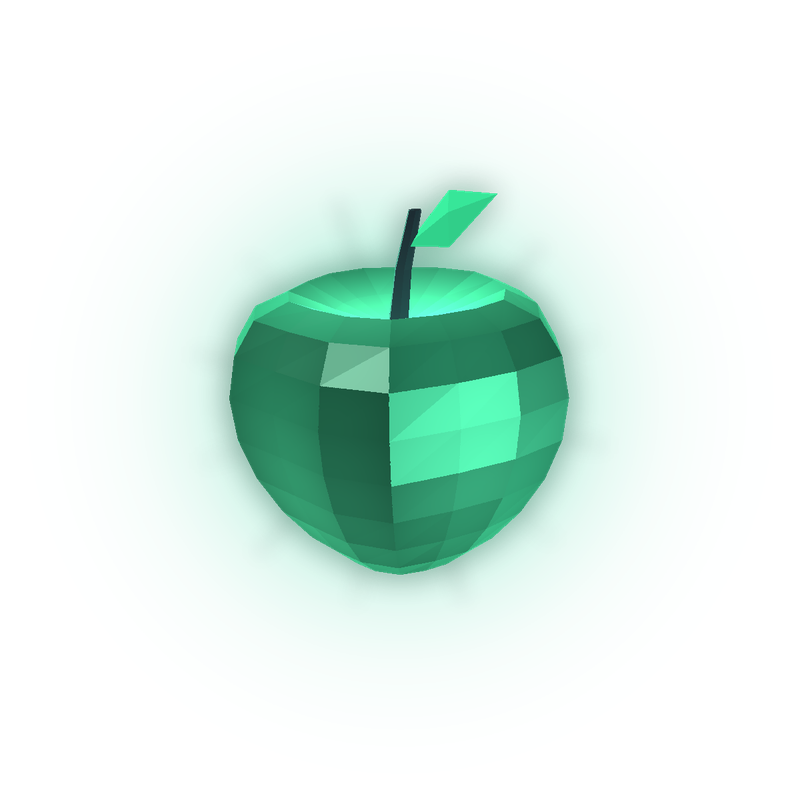
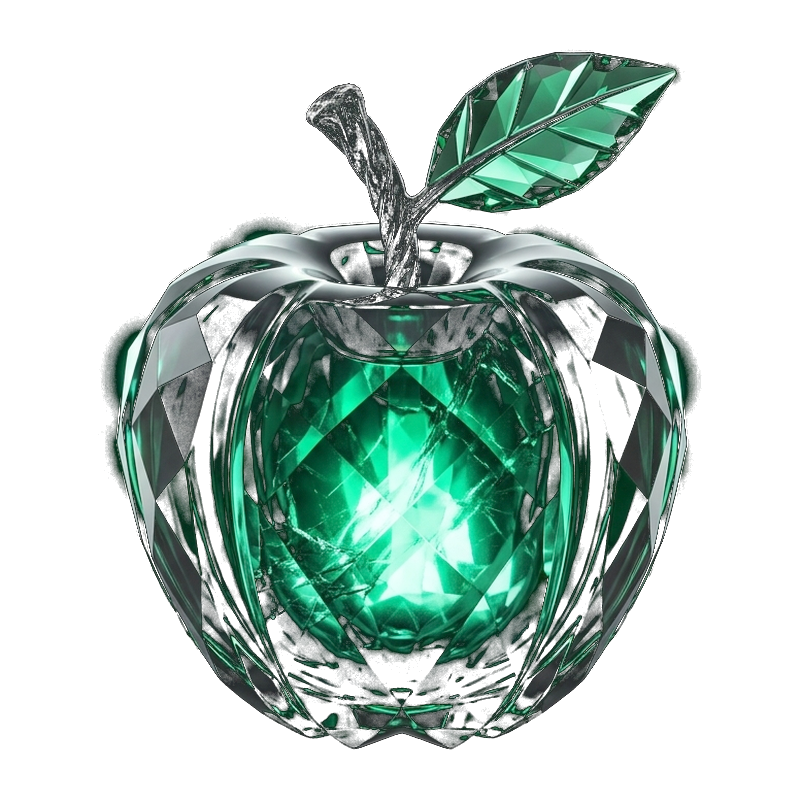
feat(landing): unify halftone style with high-detail Emerald Apple and gentler converge distance

diff --git a/assets/css/style.css b/assets/css/style.css
@@ -4847,16 +4847,16 @@ body.is-reordering-active {
 }
 
 .lp-hand-left-wrap {
-    left: -8%;
-    top: -118%;
+    left: -3%;
+    top: -3%;
     transform-origin: left center;
     transform: translate3d(0, 0, 0);
 }
 
 .lp-hand-right-wrap {
-    right: -1%;
-    top: 39%;
-    bottom: auto;
+    right: -2%;
+    bottom: -11%;
+    top: auto;
     transform-origin: right bottom;
     transform: translate3d(0, 0, 0);
 }
@@ -4942,11 +4942,11 @@ body.is-reordering-active {
 
 /* Hover priming on CTA */
 .lp-creation-stage.is-primed .lp-hand-left-wrap {
-    transform: translate3d(clamp(28px, 3.8vw, 48px), clamp(28px, 3.6vw, 46px), 0);
+    transform: translate3d(clamp(12px, 1.8vw, 22px), clamp(2px, 0.3vw, 4px), 0);
 }
 
 .lp-creation-stage.is-primed .lp-hand-right-wrap {
-    transform: translate3d(calc(-1 * clamp(16px, 2.5vw, 34px)), calc(-1 * clamp(5px, 0.9vw, 14px)), 0);
+    transform: translate3d(calc(-1 * clamp(12px, 1.8vw, 22px)), calc(-1 * clamp(3px, 0.5vw, 8px)), 0);
 }
 
 .lp-creation-stage.is-primed .lp-emerald-swell {
@@ -4959,13 +4959,13 @@ body.is-reordering-active {
     filter: drop-shadow(0 0 42px rgba(16, 185, 129, 0.65));
 }
 
-/* Click Step 1 (0..560ms): Hands glide together + Emerald glow swells BEFORE contact */
+/* Click Step 1 (0..560ms): Hands glide closer with open breathing gap + Emerald glow swells */
 .lp-creation-stage.is-converging .lp-hand-left-wrap {
-    transform: translate3d(clamp(150px, 22.4vw, 272px), clamp(190px, calc(63.8vh - 246px), 340px), 0) scale(1.03);
+    transform: translate3d(clamp(54px, 7.6vw, 96px), clamp(2px, 0.35vw, 5px), 0) scale(1.02);
 }
 
 .lp-creation-stage.is-converging .lp-hand-right-wrap {
-    transform: translate3d(calc(-1 * clamp(72px, 12.8vw, 154px)), calc(-1 * clamp(22px, 3vw, 40px)), 0) scale(1.03);
+    transform: translate3d(calc(-1 * clamp(44px, 6.2vw, 78px)), calc(-1 * clamp(6px, 0.9vw, 13px)), 0) scale(1.02);
 }
 
 .lp-creation-stage.is-converging .lp-stage-aura {
@@ -5032,22 +5032,22 @@ body.is-reordering-active {
         max-width: 215px;
     }
     .lp-hand-left-wrap {
-        left: -7.5%;
-        top: -62%;
+        left: -5%;
+        top: 6%;
     }
     .lp-hand-right-wrap {
-        right: -4%;
-        top: 44%;
-        bottom: auto;
+        right: -5%;
+        bottom: 2%;
+        top: auto;
     }
     .lp-center-relic-wrap {
         width: 120px;
     }
     .lp-creation-stage.is-converging .lp-hand-left-wrap {
-        transform: translate3d(64px, 108px, 0) scale(1.03);
+        transform: translate3d(26px, 2px, 0) scale(1.02);
     }
     .lp-creation-stage.is-converging .lp-hand-right-wrap {
-        transform: translate3d(-48px, -18px, 0) scale(1.03);
+        transform: translate3d(-24px, -6px, 0) scale(1.02);
     }
 }
 

diff --git a/hero-review.php b/hero-review.php
@@ -3,7 +3,7 @@
 $allowedOpts = ['a', 'b', 'c', 'd'];
 $initOpt = in_array($_GET['opt'] ?? 'a', $allowedOpts, true) ? $_GET['opt'] : 'a';
 $allowedStyles = ['hybrid', 'halftone', '3d'];
-$initStyle = in_array($_GET['style'] ?? 'hybrid', $allowedStyles, true) ? $_GET['style'] : 'hybrid';
+$initStyle = in_array($_GET['style'] ?? 'halftone', $allowedStyles, true) ? $_GET['style'] : 'halftone';
 $initConverged = (($_GET['state'] ?? '') === 'converged');
 ?>
 <!DOCTYPE html>
@@ -176,16 +176,16 @@ $initConverged = (($_GET['state'] ?? '') === 'converged');
         }
 
         .lp-hand-left-wrap {
-            left: -8%;
-            top: -118%;
+            left: -3%;
+            top: -3%;
             transform-origin: left center;
             transform: translate3d(0, 0, 0);
         }
 
         .lp-hand-right-wrap {
-            right: -1%;
-            top: 39%;
-            bottom: auto;
+            right: -2%;
+            bottom: -11%;
+            top: auto;
             transform-origin: right bottom;
             transform: translate3d(0, 0, 0);
         }
@@ -276,11 +276,11 @@ $initConverged = (($_GET['state'] ?? '') === 'converged');
 
         /* Active Converging State (after clicking Mulai Petualangan) */
         .lp-creation-stage.is-converging .lp-hand-left-wrap {
-            transform: translate3d(clamp(150px, 22.4vw, 272px), clamp(190px, calc(63.8vh - 246px), 340px), 0) scale(1.03);
+            transform: translate3d(clamp(54px, 7.6vw, 96px), clamp(2px, 0.35vw, 5px), 0) scale(1.02);
         }
 
         .lp-creation-stage.is-converging .lp-hand-right-wrap {
-            transform: translate3d(calc(-1 * clamp(72px, 12.8vw, 154px)), calc(-1 * clamp(22px, 3vw, 40px)), 0) scale(1.03);
+            transform: translate3d(calc(-1 * clamp(44px, 6.2vw, 78px)), calc(-1 * clamp(6px, 0.9vw, 13px)), 0) scale(1.02);
         }
 
         .lp-creation-stage.is-converging .lp-center-relic-img {
@@ -431,10 +431,10 @@ $initConverged = (($_GET['state'] ?? '') === 'converged');
                 top: 50%;
             }
             .lp-creation-stage.is-converging .lp-hand-left-wrap {
-                transform: translate3d(58px, 8px, 0) scale(1.03);
+                transform: translate3d(26px, 2px, 0) scale(1.02);
             }
             .lp-creation-stage.is-converging .lp-hand-right-wrap {
-                transform: translate3d(-48px, -10px, 0) scale(1.03);
+                transform: translate3d(-24px, -6px, 0) scale(1.02);
             }
             .lp-creation-cta-wrap {
                 gap: 0.5rem;

diff --git a/index.php b/index.php
@@ -38,7 +38,7 @@ if (isset($_SESSION['user_id'])) {
     <link href="https://fonts.googleapis.com/css2?family=Inter:wght@400;500;600;700&family=JetBrains+Mono:wght@400;500;600&family=Syne:wght@600;700;800&family=Space+Grotesk:wght@500;600;700&display=swap" rel="stylesheet">
     <link href="https://cdn.jsdelivr.net/npm/bootstrap@5.1.3/dist/css/bootstrap.min.css" rel="stylesheet" integrity="sha384-1BmE4kWBq78iYhFldvKuhfTAU6auU8tT94WrHftjDbrCEXSU1oBoqyl2QvZ6jIW3" crossorigin="anonymous">
     <link rel="stylesheet" href="https://cdnjs.cloudflare.com/ajax/libs/font-awesome/6.0.0/css/all.min.css" integrity="sha384-3B6NwesSXE7YJlcLI9RpRqGf2p/EgVH8BgoKTaUrmKNDkHPStTQ3EyoYjCGXaOTS" crossorigin="anonymous">
-    <link href="assets/css/style.css?v=20261128_02" rel="stylesheet">
+    <link href="assets/css/style.css?v=20261128_03" rel="stylesheet">
 
     <!-- Motion Libraries: GSAP via CDN -->
     <script defer src="https://cdn.jsdelivr.net/npm/gsap@3.12.5/dist/gsap.min.js"></script>
@@ -156,7 +156,7 @@ if (isset($_SESSION['user_id'])) {
 
             <div class="lp-center-relic-wrap" id="centerRelicWrap">
                 <div class="lp-center-relic-inner">
-                    <img src="assets/images/hero/obj-a-apple-3d.png" alt="Apel Kristal Emerald Lifevuww" class="lp-center-relic-img" width="800" height="800" loading="eager">
+                    <img src="assets/images/hero/obj-a-apple-halftone.png?v=20261128_03" alt="Apel Kristal Emerald Lifevuww" class="lp-center-relic-img" width="800" height="800" loading="eager">
                 </div>
             </div>
 
